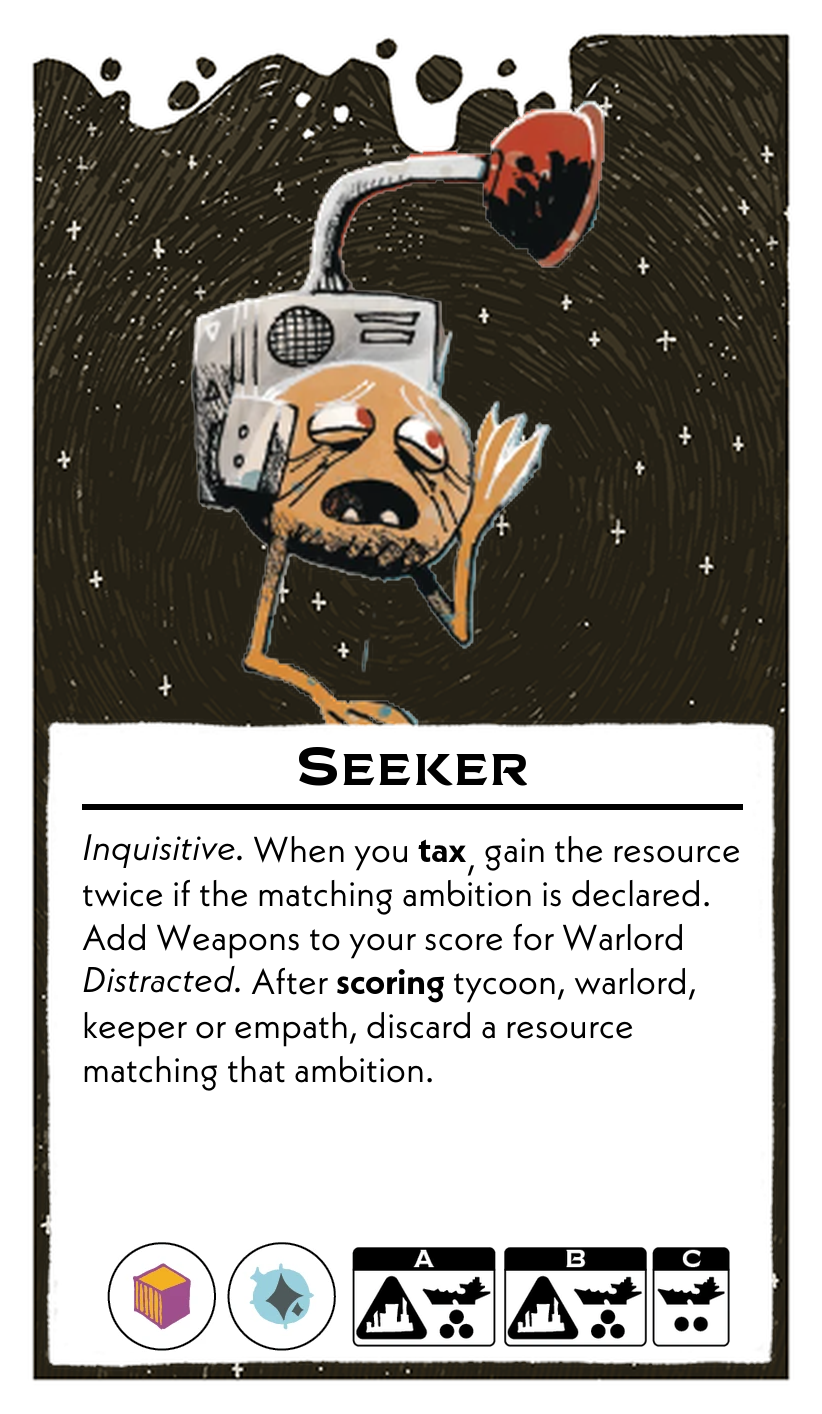
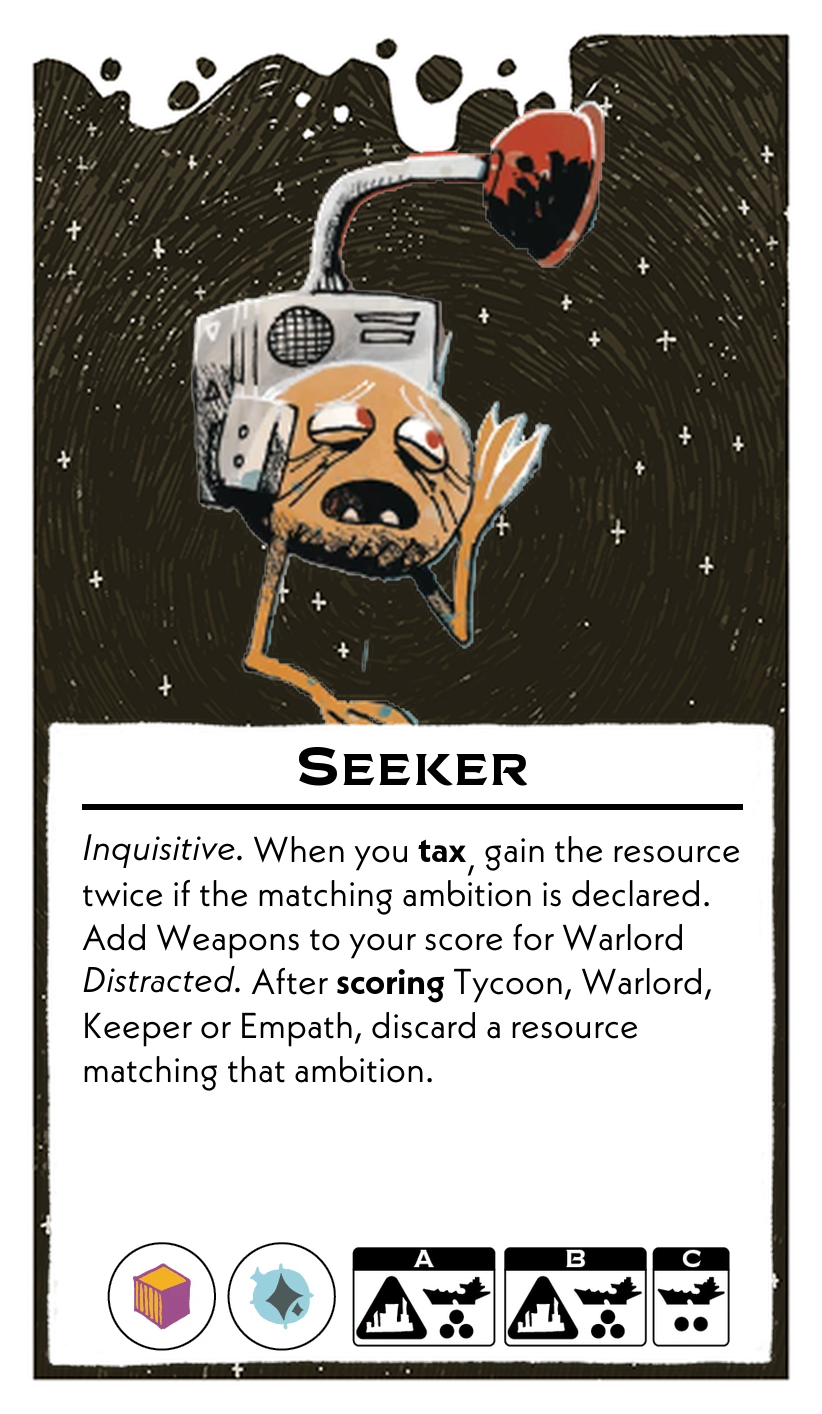
interpunctie

Changed region(s): [[0.0912, 0.6846, 0.8516, 0.7468]]

diff --git a/scripts/leadersFormatted.py b/scripts/leadersFormatted.py
@@ -183,7 +183,9 @@ leaders = [
             "B": {"ships": 3, "building": "city"},
             "C": {"ships": 2, "building": "None"}
         },
-        "body_font_size": 18
+        "body_font_size": 18,
+        "zoom": 1.155,
+        "boundary_shift": -0.02
     },
     # Manipulator
     {
@@ -363,7 +365,7 @@ leaders = [
         "name": "Seeker",
         "abilities": (
             "*Inquisitive.*  When you **tax**, gain the resource twice if the matching ambition is declared. Add Weapons to your score for Warlord\n"
-            "*Distracted.* After **scoring** tycoon, warlord, keeper or empath, discard a resource matching that ambition."
+            "*Distracted.* After **scoring** Tycoon, Warlord, Keeper or Empath, discard a resource matching that ambition."
         ),
         "resources": ["Material", "Relic"],
         "setup": {
